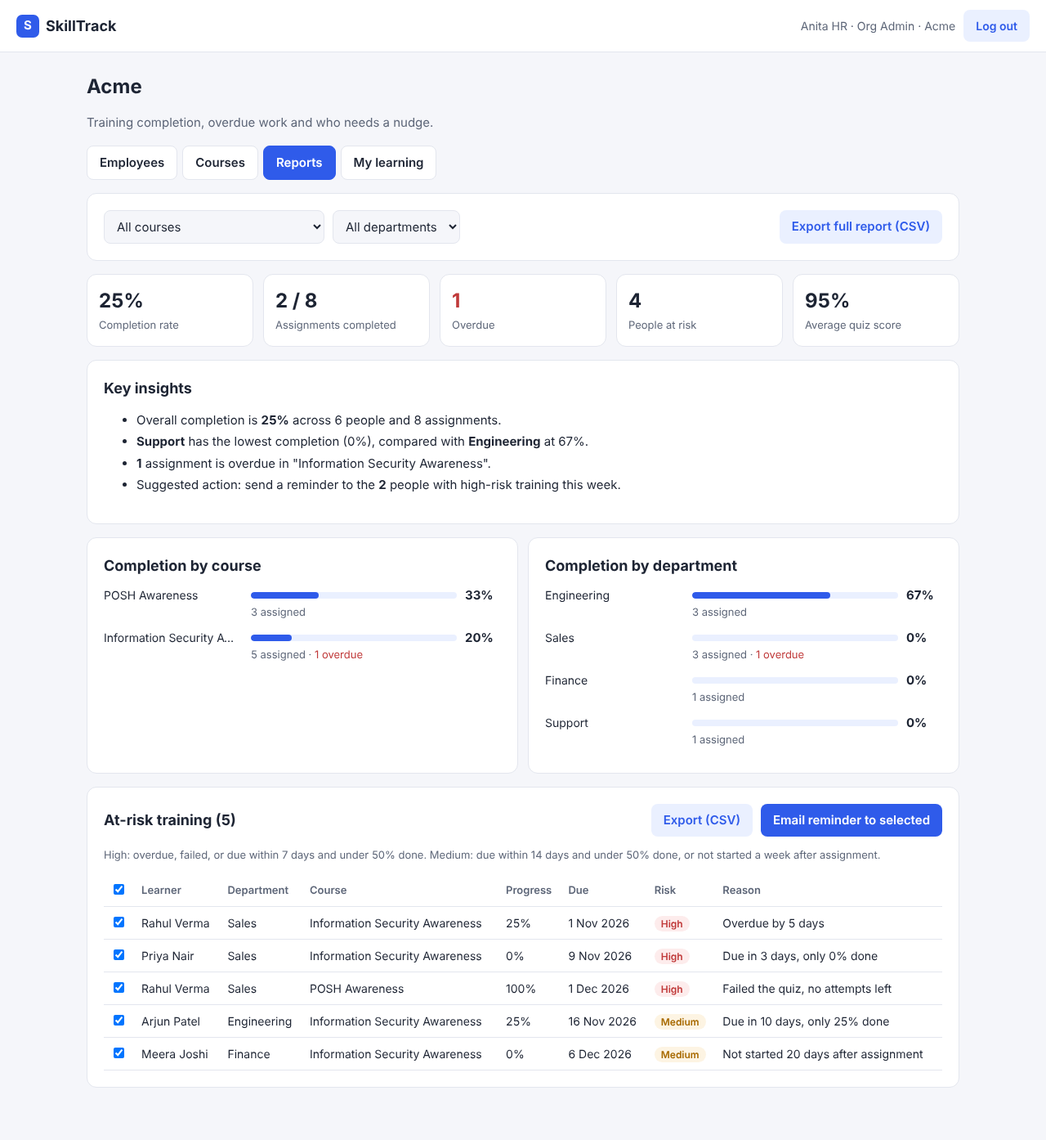
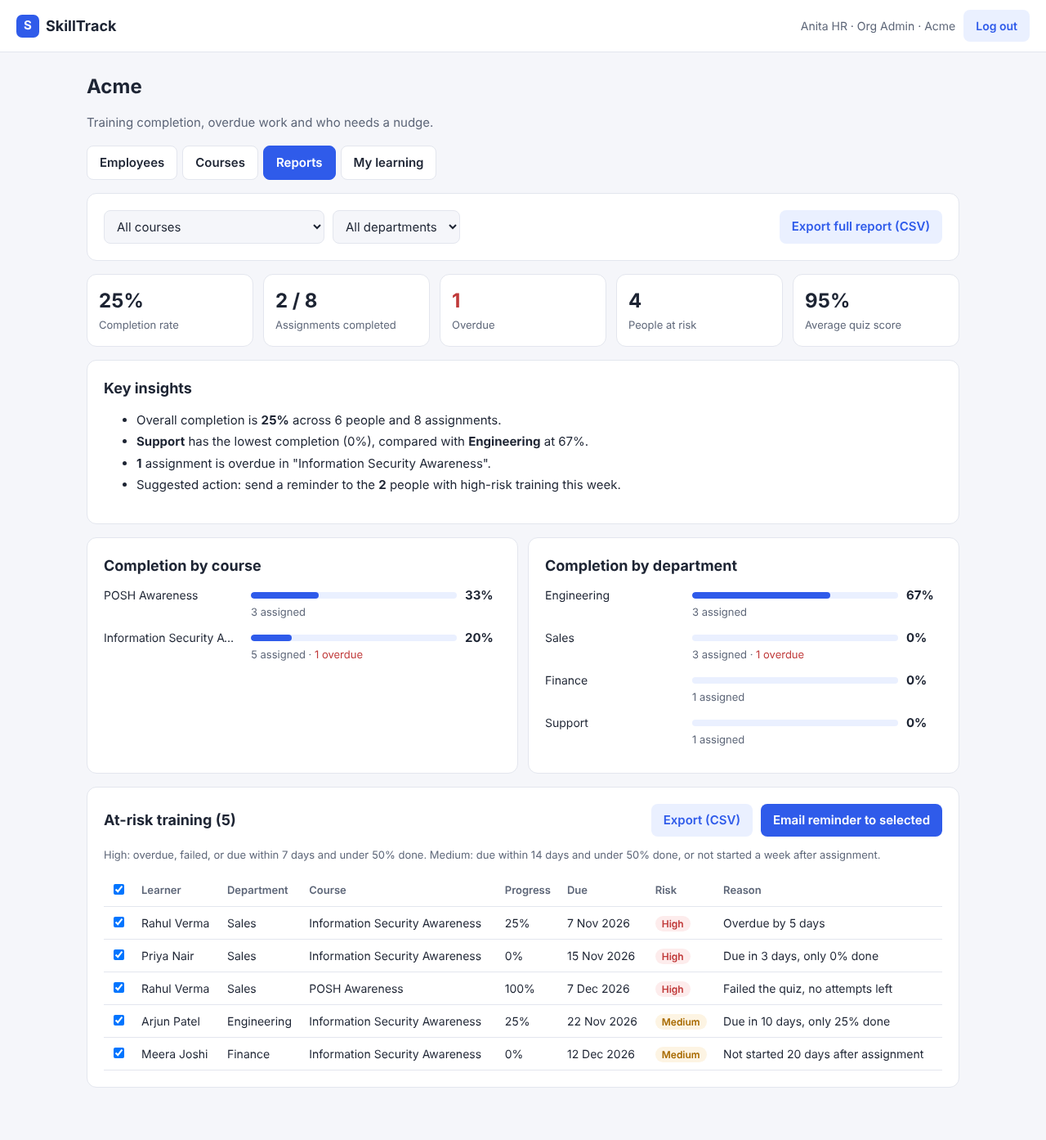
Add files via upload

diff --git a/app.js b/app.js
@@ -86,15 +86,19 @@ function renderAuth(tab) {
   };
 }
 
-function renderNewPassword() {
-  app.innerHTML = `<div class="card narrow"><h2>Set a new password</h2>
-    <form id="npForm"><label for="np">New password</label><input id="np" type="password" minlength="8" required>
+function renderNewPassword(forced) {
+  app.innerHTML = `<div class="card narrow"><h2>${forced ? 'Welcome! Choose your own password' : 'Set a new password'}</h2>
+    ${forced ? '<p class="muted small">You logged in with a temporary password. Please choose a new one to continue (at least 8 characters).</p>' : ''}
+    <form id="npForm"><label for="np">New password</label><input id="np" type="password" minlength="8" required autocomplete="new-password">
+    <label for="np2">Confirm new password</label><input id="np2" type="password" minlength="8" required autocomplete="new-password">
     <div class="row" style="margin-top:16px"><button>Save password</button></div><div id="npMsg"></div></form></div>`;
   $('#npForm').onsubmit = async e => {
     e.preventDefault();
+    if ($('#np').value !== $('#np2').value) return $('#npMsg').innerHTML = `<div class="msg err">The two passwords do not match.</div>`;
     const { data, error } = await sb.auth.updateUser({ password: $('#np').value });
     if (error) return $('#npMsg').innerHTML = `<div class="msg err">${esc(friendly(error))}</div>`;
-    toast('Password updated.'); await loadMe(data.user);
+    await sb.rpc('password_changed');
+    toast('Password saved.'); await loadMe(data.user);
   };
 }
 
@@ -114,6 +118,7 @@ async function loadMe(user) {
     app.innerHTML = `<div class="card narrow"><h2>No access</h2><p class="muted">Your account is not active in any company. Please contact your HR admin.</p></div>`;
     return;
   }
+  if (member.must_change_password) return renderNewPassword(true);
   const ctx = { companyId: member.company_id, companyName: me.company?.name, fromSuper: false };
   if (member.role === 'org_admin') return renderEmployees(ctx.companyId, ctx.companyName);
   if (member.role === 'manager') return renderTeam(ctx);
@@ -145,17 +150,19 @@ async function renderCompanies() {
       <div><label>Max users</label><input id="coMax" type="number" min="1" value="100" required></div>
       <div><label>HR admin name</label><input id="adName" required></div>
       <div><label>HR admin email</label><input id="adEmail" type="email" required></div>
-    </div><div class="row" style="margin-top:16px"><button id="coGo">Create company</button></div><div id="coMsg"></div></form></div>`;
+    </div>${loginCheckbox('coLogin')}<div class="row" style="margin-top:16px"><button id="coGo">Create company</button></div><div id="coMsg"></div></form></div>`;
   $('#coForm').onsubmit = async e => {
     e.preventDefault(); const btn = $('#coGo'); btn.disabled = true; $('#coMsg').innerHTML = '';
     try {
       const { data: co, error } = await sb.from('companies')
         .insert({ name: $('#coName').value.trim(), plan: $('#coPlan').value, max_users: +$('#coMax').value }).select().single();
       if (error) throw error;
-      const { error: e2 } = await sb.from('members').insert({ company_id: co.id, full_name: $('#adName').value.trim(), email: $('#adEmail').value.trim().toLowerCase(), role: 'org_admin' });
+      const { data: hr, error: e2 } = await sb.from('members').insert({ company_id: co.id, full_name: $('#adName').value.trim(), email: $('#adEmail').value.trim().toLowerCase(), role: 'org_admin' }).select('id').single();
       if (e2) { await sb.from('companies').delete().eq('id', co.id); throw e2; }
-      $('#coMsg').innerHTML = `<div class="msg ok">${esc(co.name)} created. Ask the HR admin to open <b>${esc(SITE)}</b> and choose "Create account".</div>`;
+      const withLogin = $('#coLogin').checked;
+      $('#coMsg').innerHTML = `<div class="msg ok">${esc(co.name)} created.${withLogin ? '' : ` Ask the HR admin to open <b>${esc(SITE)}</b> and choose "Create account".`}</div>`;
       e.target.reset(); loadCompanies();
+      if (withLogin) manageLogins('create_login', [hr.id]);
     } catch (err) { $('#coMsg').innerHTML = `<div class="msg err">${esc(friendly(err))}</div>`; }
     btn.disabled = false;
   };
@@ -212,6 +219,7 @@ function renderEmployees(companyId, companyName, fromSuper = false) {
           <label>Department</label><input id="aDept" placeholder="e.g. Sales">
           <label>Role</label><select id="aRole"><option value="learner">Learner</option><option value="manager">Manager</option><option value="org_admin">Org Admin</option></select>
           <label>Manager's email (optional)</label><input id="aMgr" type="email">
+          ${loginCheckbox('aLogin')}
           <div class="row" style="margin-top:16px"><button id="aGo">Add employee</button></div><div id="aMsg"></div>
         </form></div>
       <div class="card"><h2>Upload many (CSV)</h2>
@@ -234,10 +242,14 @@ function renderEmployees(companyId, companyName, fromSuper = false) {
   $('#addForm').onsubmit = async e => {
     e.preventDefault(); const btn = $('#aGo'); btn.disabled = true; $('#aMsg').innerHTML = '';
     const row = cleanRow({ full_name: $('#aName').value, email: $('#aEmail').value, department: $('#aDept').value, role: $('#aRole').value, manager_email: $('#aMgr').value });
-    const { error } = await sb.from('members').insert({ ...row, company_id: emp.companyId });
-    if (error) $('#aMsg').innerHTML = `<div class="msg err">${esc(friendly(error))}</div>`;
-    else { $('#aMsg').innerHTML = `<div class="msg ok">${esc(row.full_name)} added. Share the sign-up link with them.</div>`; e.target.reset(); loadEmployees(); }
+    if (!EMAIL_RE.test(row.email) || /^www\./.test(row.email)) { btn.disabled = false; return $('#aMsg').innerHTML = `<div class="msg err">Please check the email address.</div>`; }
+    const withLogin = $('#aLogin').checked;
+    const { data: added, error } = await sb.from('members').insert({ ...row, company_id: emp.companyId }).select('id').single();
     btn.disabled = false;
+    if (error) return $('#aMsg').innerHTML = `<div class="msg err">${esc(friendly(error))}</div>`;
+    $('#aMsg').innerHTML = `<div class="msg ok">${esc(row.full_name)} added.${withLogin ? '' : ' Share the sign-up link with them, or click Create login in the list.'}</div>`;
+    e.target.reset(); $('#aLogin').checked = true; loadEmployees();
+    if (withLogin) manageLogins('create_login', [added.id]);
   };
   $('#tpl').onclick = () => download('skilltrack-employees-template.csv',
     'full_name,email,department,role,manager_email\nPriya Nair,priya@yourcompany.com,Sales,manager,\nRahul Verma,rahul@yourcompany.com,Sales,learner,priya@yourcompany.com\n');
@@ -274,12 +286,17 @@ function drawEmployees() {
       return `<tr><td><b>${esc(r.full_name)}</b></td><td>${esc(r.email)}</td><td>${esc(r.department || '–')}</td>
         <td>${self ? esc(ROLES[r.role]) : `<select data-role="${r.id}">${Object.entries(ROLES).map(([k, v]) => `<option value="${k}" ${k === r.role ? 'selected' : ''}>${v}</option>`).join('')}</select>`}</td>
         <td>${esc(r.manager_email || '–')}</td><td><span class="tag ${cls}">${st}</span></td>
-        <td>${self ? '<span class="muted small">You</span>' : `<button class="link" data-act="${r.id}" data-on="${r.active}">${r.active ? 'Deactivate' : 'Reactivate'}</button>`}</td></tr>`;
+        <td>${self ? '<span class="muted small">You</span>' : `${r.active ? (r.user_id ? `<button class="link" data-reset="${r.id}">Reset password</button>` : `<button class="link" data-login="${r.id}">Create login</button>`) : ''}<button class="link" data-act="${r.id}" data-on="${r.active}">${r.active ? 'Deactivate' : 'Reactivate'}</button>`}</td></tr>`;
     }).join('') || `<tr><td colspan="7" class="muted">No employees match these filters.</td></tr>`}
     </tbody></table>`;
   $('#empList').querySelectorAll('[data-role]').forEach(s => s.onchange = async () => {
     const { error } = await sb.from('members').update({ role: s.value }).eq('id', s.dataset.role);
     toast(error ? friendly(error) : 'Role updated.'); loadEmployees();
+  });
+  $('#empList').querySelectorAll('[data-login]').forEach(b => b.onclick = () => manageLogins('create_login', [b.dataset.login]));
+  $('#empList').querySelectorAll('[data-reset]').forEach(b => b.onclick = () => {
+    const m = emp.rows.find(r => r.id === b.dataset.reset);
+    if (confirm(`Reset the password for ${m.full_name}? Their current password will stop working and they will get a new temporary one.`)) manageLogins('reset_password', [m.id]);
   });
   $('#empList').querySelectorAll('[data-act]').forEach(b => b.onclick = async () => {
     const on = b.dataset.on === 'true';
@@ -332,17 +349,19 @@ function previewCsv(text) {
   });
   out.innerHTML = `<div class="msg info"><b>${pending.length}</b> employees ready to import${problems.length ? `, <b>${problems.length}</b> rows skipped` : ''}.</div>
     ${problems.length ? `<details style="margin-top:8px"><summary class="small">See skipped rows</summary><ul class="small">${problems.slice(0, 50).map(p => `<li>${esc(p)}</li>`).join('')}</ul></details>` : ''}
-    ${pending.length ? `<div class="row" style="margin-top:12px"><button id="doImport">Import ${pending.length} employees</button></div>` : ''}`;
+    ${pending.length ? `${loginCheckbox('csvLogin', 'Create logins and send welcome emails')}<div class="row" style="margin-top:12px"><button id="doImport">Import ${pending.length} employees</button></div>` : ''}`;
   if (pending.length) $('#doImport').onclick = runImport;
 }
 async function runImport() {
-  const btn = $('#doImport'); btn.disabled = true; let ok = 0; const fails = [];
+  const btn = $('#doImport'); btn.disabled = true; let ok = 0; const fails = [], newIds = [];
+  const withLogin = $('#csvLogin').checked;
   for (let i = 0; i < pending.length; i++) {
     btn.textContent = `Importing ${i + 1} of ${pending.length}…`;
     const r = pending[i];
-    const { error } = await sb.from('members').insert({ ...r, company_id: emp.companyId });
-    if (error) { fails.push(`${r.email}: ${friendly(error)}`); if (/limit reached/i.test(error.message)) break; } else ok++;
+    const { data, error } = await sb.from('members').insert({ ...r, company_id: emp.companyId }).select('id').single();
+    if (error) { fails.push(`${r.email}: ${friendly(error)}`); if (/limit reached/i.test(error.message)) break; } else { ok++; newIds.push(data.id); }
   }
+  if (withLogin && newIds.length) manageLogins('create_login', newIds);
   $('#csvOut').innerHTML = `<div class="msg ${fails.length ? 'err' : 'ok'}">${ok} employees imported.${fails.length ? ` ${fails.length} failed.` : ''}</div>
     ${fails.length ? `<ul class="small">${fails.slice(0, 50).map(f => `<li>${esc(f)}</li>`).join('')}</ul>` : ''}`;
   $('#csv').value = ''; pending = []; loadEmployees();
@@ -370,4 +389,59 @@ async function renderTeam(ctx) {
     ${work.sort((a, b) => assignmentStatus(a).text === 'Overdue' ? -1 : 1).map(a => { const s = assignmentStatus(a);
       return `<tr><td>${esc(who(a.member_id))}</td><td>${esc(a.courses.title)}</td><td><span class="tag ${s.cls}">${s.text}</span></td><td>${a.best_score ?? '–'}${a.best_score != null ? '%' : ''}</td><td>${fmtDate(a.due_date)}</td></tr>`; }).join('')}</tbody></table>`}</div>`;
   wireNav(ctx);
+}
+
+/* ---------------- Logins created by admins (Week 6) ---------------- */
+function loginCheckbox(id, label = 'Create login and send welcome email') {
+  return `<label class="pickrow" style="margin-top:14px"><input type="checkbox" id="${id}" checked style="width:auto"> ${label}</label>
+    <p class="muted small" style="margin:2px 0 0 26px">A temporary password is created, shown to you once and emailed (if email is set up). They choose their own password at first login.</p>`;
+}
+
+async function manageLogins(action, ids) {
+  const busy = showModal(`<h2>${action === 'reset_password' ? 'Resetting password…' : `Creating ${ids.length === 1 ? 'login' : ids.length + ' logins'}…`}</h2><p class="muted">Please wait.</p>`);
+  const { data, error } = await sb.functions.invoke('manage-users', { body: { action, member_ids: ids, app_url: SITE } });
+  busy.close();
+  if (error) {
+    let msg = 'Login management is not set up yet: deploy the "manage-users" function in Supabase (see README).';
+    if (error.context?.status && error.context.status !== 404) try { const j = await error.context.json(); if (j.error) msg = j.error; } catch { /* keep message */ }
+    return toast(msg, 8000);
+  }
+  if (typeof loadEmployees === 'function' && view === 'employees') loadEmployees();
+  if (view === 'companies') loadCompanies();
+  showLogins(action, data.results || [], data.email_configured);
+}
+
+function showLogins(action, results, emailConfigured) {
+  const good = results.filter(r => r.password), bad = results.filter(r => !r.password);
+  const lines = good.map(r => `${r.full_name} | ${r.email} | ${r.password}`).join('\n');
+  const m = showModal(`<h2>${action === 'reset_password' ? 'New temporary password' : good.length === 1 ? 'Login created' : `${good.length} logins created`}</h2>
+    <p class="msg info small">Copy these now: for security, SkillTrack does not store passwords and cannot show them again. ${action === 'reset_password' ? 'The old password no longer works.' : ''} Each person must choose their own password at first login.</p>
+    ${!emailConfigured && good.length ? '<p class="msg err small">Welcome emails are not set up yet, so nothing was emailed. Share the login page, email and password with each person yourself.</p>' : ''}
+    ${good.length ? `<div class="tbl"><table><thead><tr><th>Name</th><th>Email (login ID)</th><th>Temporary password</th><th></th><th>Email sent</th></tr></thead><tbody>
+      ${good.map((r, i) => `<tr><td>${esc(r.full_name)}</td><td>${esc(r.email)}</td><td><code class="pw">${esc(r.password)}</code></td>
+        <td><button class="link" data-copy="${i}">Copy</button></td><td>${r.emailed ? '<span class="tag ok">Sent</span>' : '<span class="tag warn">Not sent</span>'}</td></tr>`).join('')}
+    </tbody></table></div>
+    <p class="small muted">Login page: <b>${esc(SITE)}</b></p>` : ''}
+    ${bad.length ? `<p class="small"><b>Not done:</b></p><ul class="small">${bad.map(r => `<li>${esc(r.full_name)} (${esc(r.email)}): ${esc(r.error || 'failed')}</li>`).join('')}</ul>` : ''}
+    <div class="row" style="margin-top:14px">${good.length > 1 ? '<button class="sec" id="copyAll">Copy all</button><button class="sec" id="dlLogins">Download CSV</button>' : ''}<button id="doneLogins">Done</button></div>`);
+  const copy = async text => { try { await navigator.clipboard.writeText(text); toast('Copied.'); } catch { prompt('Copy this:', text); } };
+  m.el.querySelectorAll('[data-copy]').forEach(b => b.onclick = () => {
+    const r = good[+b.dataset.copy];
+    copy(`Login page: ${SITE}\nEmail: ${r.email}\nTemporary password: ${r.password}\nYou will be asked to choose your own password when you log in.`);
+  });
+  if (m.el.querySelector('#copyAll')) m.el.querySelector('#copyAll').onclick = () => copy(`Login page: ${SITE}\n${lines}`);
+  if (m.el.querySelector('#dlLogins')) m.el.querySelector('#dlLogins').onclick = () =>
+    download('skilltrack-logins.csv', ['full_name,email,temporary_password', ...good.map(r => [r.full_name, r.email, r.password].map(v => `"${String(v).replace(/"/g, '""')}"`).join(','))].join('\n'));
+  m.el.querySelector('#doneLogins').onclick = () => {
+    if (good.length && !confirm('Have you copied the passwords? They cannot be shown again.')) return;
+    m.close();
+  };
+}
+
+function showModal(html) {
+  const el = document.createElement('div');
+  el.className = 'modal-bg';
+  el.innerHTML = `<div class="modal card" role="dialog" aria-modal="true">${html}</div>`;
+  document.body.appendChild(el);
+  return { el, close: () => el.remove() };
 }

diff --git a/supabase/functions/manage-users/index.ts b/supabase/functions/manage-users/index.ts
@@ -1,0 +1,125 @@
+// SkillTrack - create logins, reset passwords and send welcome emails (Supabase Edge Function)
+// Deploy in Supabase: Edge Functions > Deploy a new function > Via Editor > name it "manage-users" > paste this file.
+// Optional secrets for emails (Edge Functions > Secrets): BREVO_API_KEY, SENDER_EMAIL, SENDER_NAME.
+// Without them, logins are still created and the admin shares the password themselves.
+// Passwords are never stored by SkillTrack: they are shown once to the admin and emailed once.
+import { createClient } from "npm:@supabase/supabase-js@2";
+
+const cors = {
+  "Access-Control-Allow-Origin": "*",
+  "Access-Control-Allow-Headers": "authorization, x-client-info, apikey, content-type",
+  "Access-Control-Allow-Methods": "POST, OPTIONS",
+};
+const reply = (status: number, body: unknown) =>
+  new Response(JSON.stringify(body), { status, headers: { ...cors, "Content-Type": "application/json" } });
+const esc = (s: string) => String(s ?? "").replace(/[&<>"']/g, (c) => ({ "&": "&amp;", "<": "&lt;", ">": "&gt;", '"': "&quot;", "'": "&#39;" }[c]!));
+
+// 12 characters, easy to read (no 0/O/1/l/I), always with upper, lower and a digit.
+function tempPassword(): string {
+  const upper = "ABCDEFGHJKLMNPQRSTUVWXYZ", lower = "abcdefghijkmnpqrstuvwxyz", digits = "23456789", all = upper + lower + digits;
+  const pick = (set: string) => set[crypto.getRandomValues(new Uint32Array(1))[0] % set.length];
+  const chars = [pick(upper), pick(lower), pick(digits), ...Array.from({ length: 9 }, () => pick(all))];
+  for (let i = chars.length - 1; i > 0; i--) { const j = crypto.getRandomValues(new Uint32Array(1))[0] % (i + 1); [chars[i], chars[j]] = [chars[j], chars[i]]; }
+  return chars.join("");
+}
+
+function emailHtml(kind: "welcome" | "reset", name: string, company: string, url: string, email: string, password: string) {
+  const intro = kind === "welcome"
+    ? `${esc(company)} has set up your SkillTrack account for workplace training.`
+    : `Your SkillTrack password for ${esc(company)} has been reset by your administrator.`;
+  return `<div style="font-family:Arial,sans-serif;max-width:520px;margin:auto;color:#1d2433">
+  <h2 style="color:#2f5bea">${kind === "welcome" ? "Welcome to SkillTrack" : "Your new SkillTrack password"}</h2>
+  <p>Hi ${esc(name)},</p><p>${intro}</p>
+  <table style="border-collapse:collapse;margin:16px 0">
+    <tr><td style="padding:6px 12px 6px 0;color:#5d6678">Login page</td><td><a href="${esc(url)}">${esc(url)}</a></td></tr>
+    <tr><td style="padding:6px 12px 6px 0;color:#5d6678">Email</td><td><b>${esc(email)}</b></td></tr>
+    <tr><td style="padding:6px 12px 6px 0;color:#5d6678">Temporary password</td><td><b style="font-family:monospace;font-size:16px">${esc(password)}</b></td></tr>
+  </table>
+  <p>You will be asked to choose your own password when you log in.</p>
+  <p><a href="${esc(url)}" style="background:#2f5bea;color:#fff;padding:10px 18px;border-radius:8px;text-decoration:none;display:inline-block">Log in to SkillTrack</a></p>
+  <p style="color:#5d6678;font-size:13px">If you did not expect this email, please contact your HR team.</p></div>`;
+}
+
+async function sendEmail(to: string, name: string, subject: string, html: string): Promise<boolean> {
+  const key = Deno.env.get("BREVO_API_KEY"), from = Deno.env.get("SENDER_EMAIL");
+  if (!key || !from) return false;
+  const r = await fetch("https://api.brevo.com/v3/smtp/email", {
+    method: "POST",
+    headers: { "api-key": key, "Content-Type": "application/json", accept: "application/json" },
+    body: JSON.stringify({ sender: { email: from, name: Deno.env.get("SENDER_NAME") || "SkillTrack" }, to: [{ email: to, name }], subject, htmlContent: html }),
+  });
+  if (!r.ok) console.error("Email failed", r.status, await r.text());
+  return r.ok;
+}
+
+Deno.serve(async (req) => {
+  if (req.method === "OPTIONS") return new Response("ok", { headers: cors });
+  if (req.method !== "POST") return reply(405, { error: "Use POST." });
+
+  const url = Deno.env.get("SUPABASE_URL")!;
+  const asCaller = createClient(url, Deno.env.get("SUPABASE_ANON_KEY")!, { global: { headers: { Authorization: req.headers.get("Authorization") ?? "" } } });
+  const admin = createClient(url, Deno.env.get("SUPABASE_SERVICE_ROLE_KEY")!, { auth: { persistSession: false, autoRefreshToken: false } });
+
+  const { data: { user: caller } } = await asCaller.auth.getUser();
+  if (!caller) return reply(401, { error: "Please log in again." });
+
+  let body: { action?: string; member_ids?: string[]; app_url?: string };
+  try { body = await req.json(); } catch { return reply(400, { error: "Invalid request." }); }
+  const action = body.action;
+  const ids = Array.isArray(body.member_ids) ? [...new Set(body.member_ids.map(String))] : [];
+  const appUrl = /^https:\/\/[^\s"<>]+$/.test(body.app_url ?? "") ? body.app_url! : (Deno.env.get("APP_URL") ?? "");
+  if (action !== "create_login" && action !== "reset_password") return reply(400, { error: "Unknown action." });
+  if (!ids.length || ids.length > 200) return reply(400, { error: "Choose between 1 and 200 employees." });
+
+  const { data: members, error } = await admin.from("members")
+    .select("id, email, full_name, company_id, user_id, active, companies(name)").in("id", ids);
+  if (error) return reply(500, { error: "Could not load employees." });
+
+  // The caller must be HR admin of every company involved (or the Super Admin).
+  for (const companyId of new Set((members ?? []).map((m) => m.company_id))) {
+    const { data: ok } = await asCaller.rpc("is_admin_of", { p_company: companyId });
+    if (!ok) return reply(403, { error: "Only HR admins can manage logins for their own company." });
+  }
+
+  const emailConfigured = !!(Deno.env.get("BREVO_API_KEY") && Deno.env.get("SENDER_EMAIL"));
+  const results = [];
+  for (const m of members ?? []) {
+    const company = (m as any).companies?.name ?? "Your company";
+    const base = { member_id: m.id, full_name: m.full_name, email: m.email };
+    if (!m.active) { results.push({ ...base, error: "Employee is deactivated." }); continue; }
+    if (m.user_id === caller.id) { results.push({ ...base, error: "Use your own profile to change your password." }); continue; }
+    const password = tempPassword();
+    try {
+      if (action === "create_login") {
+        if (m.user_id) { results.push({ ...base, error: "Already has a login. Use Reset password." }); continue; }
+        const { data: created, error: e1 } = await admin.auth.admin.createUser({ email: m.email, password, email_confirm: true, user_metadata: { full_name: m.full_name } });
+        if (e1) {
+          // Never take over an existing login (it could belong to someone else, e.g. another admin):
+          // the person can use "Forgot password" on the login page instead.
+          if (/already|registered|exists/i.test(e1.message)) {
+            results.push({ ...base, error: "A login already exists for this email. Ask them to use Forgot password on the login page." });
+            continue;
+          }
+          throw e1;
+        } else if (created?.user) {
+          // The signup trigger links the login; this makes sure even if it did not run.
+          await admin.from("members").update({ user_id: created.user.id }).eq("id", m.id).is("user_id", null);
+        }
+      } else {
+        if (!m.user_id) { results.push({ ...base, error: "No login yet. Use Create login." }); continue; }
+        const { error: e2 } = await admin.auth.admin.updateUserById(m.user_id, { password });
+        if (e2) throw e2;
+      }
+      await admin.from("members").update({ must_change_password: true }).eq("id", m.id);
+      const kind = action === "create_login" ? "welcome" : "reset";
+      const emailed = appUrl ? await sendEmail(m.email, m.full_name,
+        kind === "welcome" ? `Welcome to SkillTrack - your login for ${company}` : "Your SkillTrack password has been reset",
+        emailHtml(kind, m.full_name, company, appUrl, m.email, password)) : false;
+      results.push({ ...base, password, emailed });
+    } catch (e) {
+      console.error(e);
+      results.push({ ...base, error: "Could not update this login. Please try again." });
+    }
+  }
+  return reply(200, { results, email_configured: emailConfigured });
+});

diff --git a/styles.css b/styles.css
@@ -74,3 +74,6 @@ ul li{margin:4px 0}
 details.qbox summary{cursor:pointer}
 details.qbox .lesson-body{margin-top:8px}
 .chatflow{border-top:1px solid var(--line);margin-top:18px;padding-top:6px}.chatflow textarea{font:13px/1.45 ui-monospace,Menlo,Consolas,monospace}
+.modal-bg{position:fixed;inset:0;background:rgba(10,14,24,.55);display:grid;place-items:center;padding:16px;z-index:20}
+.modal{max-width:760px;width:100%;max-height:90vh;overflow:auto;margin:0}
+code.pw{font-size:15px;letter-spacing:.04em;padding:3px 8px}

diff --git a/README.md b/README.md
@@ -44,7 +44,14 @@ Simple training and compliance tracking for growing companies: assign mandatory 
 - HR reviews a preview, then saves it as a **draft** course to edit and publish (nothing is published automatically)
 - Runs in a Supabase Edge Function (`supabase/functions/ai-course`), so the AI key never reaches the browser, and only HR admins can use it
 
-Coming next: automatic email reminders.
+## Week 6 features (live)
+- **Admin-created logins**: when HR adds an employee (one by one, CSV, or a new company's HR admin), SkillTrack can create the login straight away
+- A **temporary password** is generated, shown to the admin **once** with a Copy button (and Copy all / Download CSV for bulk), and emailed in a **welcome email** with the login page, email and password
+- **Reset password** for any employee: a new temporary password, shown once and emailed
+- Employees must **choose their own password at first login**
+- Passwords are never stored in a readable form; logins are managed by a Supabase Edge Function (`supabase/functions/manage-users`) that checks the caller is HR admin of that company
+
+Coming next: automatic training reminder emails.
 
 ## One-time setup
 
@@ -52,7 +59,7 @@ Coming next: automatic email reminders.
 1. Open your Supabase project → **SQL Editor** → **New query**.
 2. Open `setup.sql`, find `YOUR_EMAIL_HERE` at the bottom and replace it with **your** email (this becomes the Super Admin).
 3. Paste the whole file into the editor and click **Run**. You should see "Success. No rows returned".
-4. Then open a **New query**, paste the whole of `week2.sql` and click **Run**. Do the same with `week4.sql`.
+4. Then open a **New query**, paste the whole of `week2.sql` and click **Run**. Do the same with `week4.sql`, then `week6.sql`.
 
 ### 2. Login settings (Supabase)
 1. **Authentication → URL Configuration**
@@ -64,6 +71,11 @@ Coming next: automatic email reminders.
 1. Create an API key at console.anthropic.com (add a little credit first).
 2. Supabase → **Edge Functions → Secrets** → add `ANTHROPIC_API_KEY` with that key.
 3. Supabase → **Edge Functions → Deploy a new function → Via Editor**, name it `ai-course`, paste `supabase/functions/ai-course/index.ts`, Deploy.
+
+### 3b. Logins and welcome emails
+1. Run `week6.sql` in the SQL Editor.
+2. Supabase → **Edge Functions → Deploy a new function → Via Editor**, name it `manage-users`, paste `supabase/functions/manage-users/index.ts`, Deploy.
+3. Optional, for emails: create a free Brevo account, verify your sender email, create an API key, and add the secrets `BREVO_API_KEY`, `SENDER_EMAIL` (and optionally `SENDER_NAME`).
 
 ### 4. Connect the app
 Open `config.js` and paste your **Project URL** and **anon public** key from Supabase → Project Settings → API.
